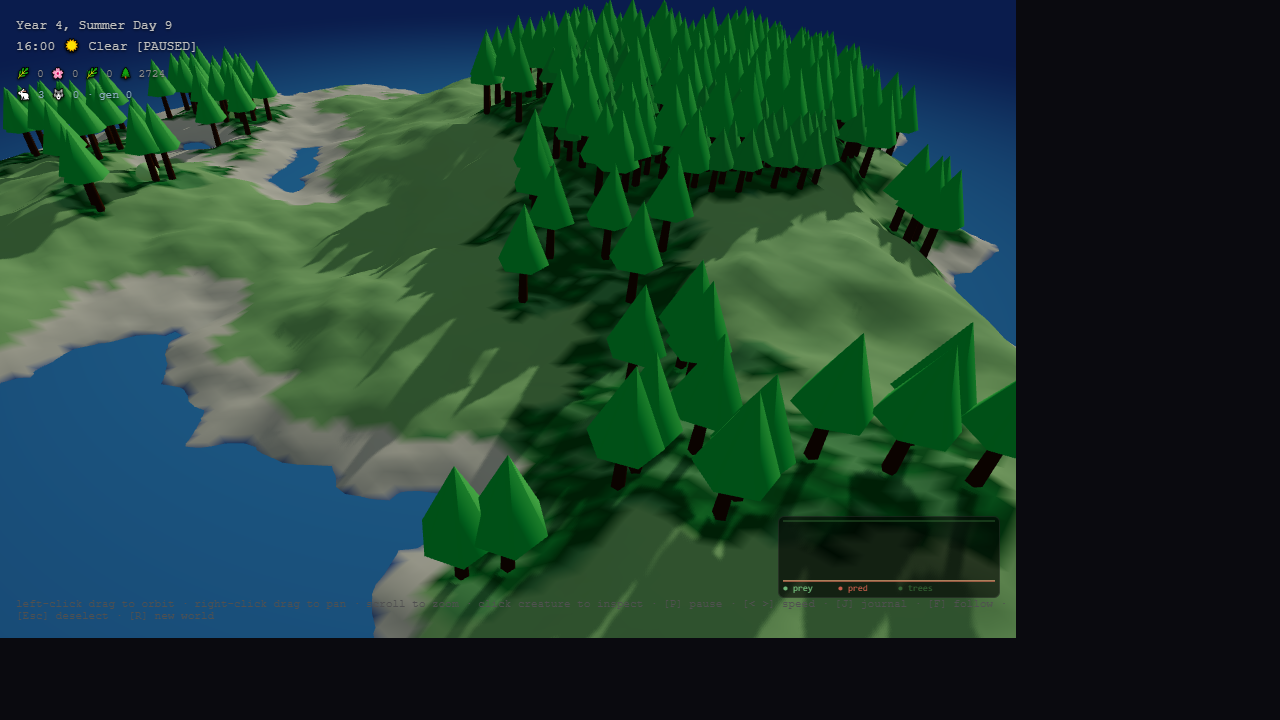
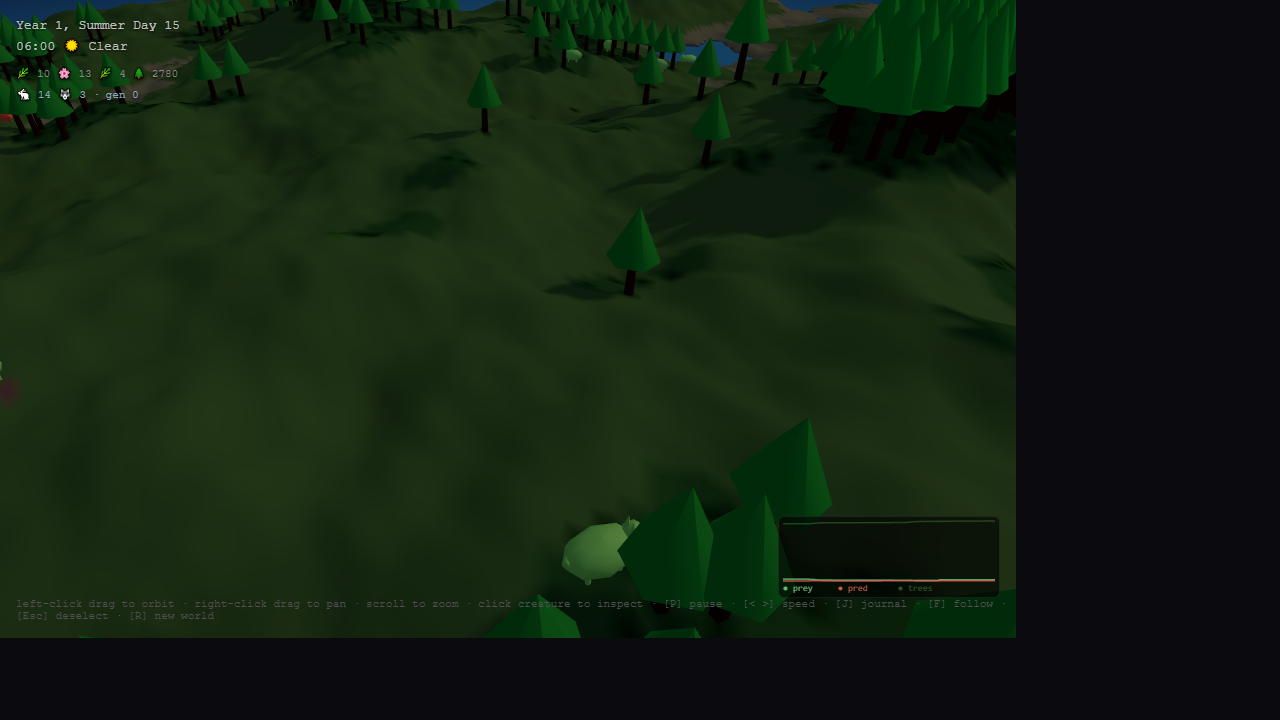
Expand world to 512x512, add quadruped creature models, fix orbit direction
- WORLD_SIZE 256 → 512 for 4x larger island
- MAX_CREATURES 600 → 1200, initial spawn scaled proportionally
- Herbivores: low-poly quadruped (body, head, ears, legs, tail)
- Predators: sleek wolf-like shape (elongated body, snout, legs, tail)
- Both creature types now face movement direction
- Fix inverted left-click orbit: drag right orbits right
- Camera: radius 220, max 700, far plane 2500 for larger world
- Sky dome 2400 radius, fog density halved, shadow far 800
- Vegetation limits: 10K trees, 7K bushes
- Updated screenshots for new larger world

diff --git a/src/render3d/CreatureMeshes.ts b/src/render3d/CreatureMeshes.ts
@@ -1,13 +1,88 @@
 import * as THREE from 'three';
+import { mergeGeometries } from 'three/addons/utils/BufferGeometryUtils.js';
 import { Creature, Diet, CreatureState } from '../life/Creature';
 import { Terrain } from '../world/Terrain';
 import { TerrainMesh } from './TerrainMesh';
 
-const MAX_INSTANCES = 700; // Slightly above MAX_CREATURES
+const MAX_INSTANCES = 1400; // Slightly above MAX_CREATURES
+
+/** Build a low-poly quadruped herbivore (rabbit/deer-like). Faces +X. */
+function buildHerbivoreGeo(): THREE.BufferGeometry {
+  // Rounded body
+  const body = new THREE.SphereGeometry(1, 8, 6);
+  body.scale(1.3, 0.7, 0.8);
+  body.translate(0, 0.5, 0);
+
+  // Head
+  const head = new THREE.SphereGeometry(0.4, 6, 5);
+  head.translate(1.1, 0.85, 0);
+
+  // Ears
+  const earL = new THREE.ConeGeometry(0.12, 0.5, 4);
+  earL.translate(0.95, 1.35, 0.15);
+  const earR = new THREE.ConeGeometry(0.12, 0.5, 4);
+  earR.translate(0.95, 1.35, -0.15);
+
+  // Legs
+  const legGeo = () => {
+    const g = new THREE.CylinderGeometry(0.1, 0.1, 0.6, 5);
+    return g;
+  };
+  const fl = legGeo(); fl.translate(0.55, -0.05, 0.35);
+  const fr = legGeo(); fr.translate(0.55, -0.05, -0.35);
+  const bl = legGeo(); bl.translate(-0.55, -0.05, 0.35);
+  const br = legGeo(); br.translate(-0.55, -0.05, -0.35);
+
+  // Short tail
+  const tail = new THREE.SphereGeometry(0.18, 4, 4);
+  tail.translate(-1.15, 0.6, 0);
+
+  const merged = mergeGeometries([body, head, earL, earR, fl, fr, bl, br, tail]);
+  merged.computeVertexNormals();
+  return merged;
+}
+
+/** Build a low-poly predator (wolf/fox-like). Faces +X. */
+function buildPredatorGeo(): THREE.BufferGeometry {
+  // Sleek body
+  const body = new THREE.SphereGeometry(1, 8, 6);
+  body.scale(1.6, 0.55, 0.6);
+  body.translate(0, 0.5, 0);
+
+  // Head/snout — cone pointing forward
+  const snout = new THREE.ConeGeometry(0.35, 0.9, 6);
+  snout.rotateZ(-Math.PI / 2);
+  snout.translate(1.5, 0.65, 0);
+
+  // Ears — pointed triangles
+  const earL = new THREE.ConeGeometry(0.1, 0.4, 3);
+  earL.translate(1.0, 1.1, 0.18);
+  const earR = new THREE.ConeGeometry(0.1, 0.4, 3);
+  earR.translate(1.0, 1.1, -0.18);
+
+  // Legs — longer and thinner
+  const legGeo = () => {
+    const g = new THREE.CylinderGeometry(0.08, 0.08, 0.7, 5);
+    return g;
+  };
+  const fl = legGeo(); fl.translate(0.7, -0.05, 0.28);
+  const fr = legGeo(); fr.translate(0.7, -0.05, -0.28);
+  const bl = legGeo(); bl.translate(-0.7, -0.05, 0.28);
+  const br = legGeo(); br.translate(-0.7, -0.05, -0.28);
+
+  // Tail — long and thin
+  const tail = new THREE.CylinderGeometry(0.06, 0.12, 1.0, 5);
+  tail.rotateZ(Math.PI / 3);
+  tail.translate(-1.5, 0.9, 0);
+
+  const merged = mergeGeometries([body, snout, earL, earR, fl, fr, bl, br, tail]);
+  merged.computeVertexNormals();
+  return merged;
+}
 
 /**
  * Renders all creatures as instanced meshes for performance.
- * Herbivores = spheres, Predators = cones (pointed in movement direction).
+ * Herbivores = low-poly quadrupeds (rabbit/deer), Predators = sleek hunters (wolf/fox).
  * A selection ring highlights the picked creature.
  */
 export class CreatureMeshes {
@@ -26,17 +101,16 @@ export class CreatureMeshes {
   predIds: number[] = [];
 
   constructor(scene: THREE.Scene) {
-    // Herbivore geometry — sphere
-    const herbGeo = new THREE.SphereGeometry(1.2, 10, 8);
+    // Herbivore geometry — low-poly quadruped
+    const herbGeo = buildHerbivoreGeo();
     const herbMat = new THREE.MeshPhongMaterial({ color: 0xffffff, shininess: 20 });
     this.herbGroup = new THREE.InstancedMesh(herbGeo, herbMat, MAX_INSTANCES);
     this.herbGroup.instanceMatrix.setUsage(THREE.DynamicDrawUsage);
     this.herbGroup.frustumCulled = false;
     scene.add(this.herbGroup);
 
-    // Predator geometry — cone pointed forward
-    const predGeo = new THREE.ConeGeometry(1.0, 2.5, 8);
-    predGeo.rotateZ(-Math.PI / 2); // point along +X
+    // Predator geometry — sleek hunter
+    const predGeo = buildPredatorGeo();
     const predMat = new THREE.MeshPhongMaterial({ color: 0xffffff, shininess: 20 });
     this.predGroup = new THREE.InstancedMesh(predGeo, predMat, MAX_INSTANCES);
     this.predGroup.instanceMatrix.setUsage(THREE.DynamicDrawUsage);
@@ -87,6 +161,9 @@ export class CreatureMeshes {
 
         this.dummy.position.copy(pos);
         this.dummy.scale.setScalar(scale);
+        // Face movement direction
+        const angle = Math.atan2(c.dy, c.dx);
+        this.dummy.rotation.set(0, -angle + Math.PI / 2, 0);
         this.dummy.updateMatrix();
         this.herbGroup.setMatrixAt(idx, this.dummy.matrix);
 

diff --git a/src/render3d/OrbitCamera.ts b/src/render3d/OrbitCamera.ts
@@ -10,15 +10,15 @@ export class OrbitCamera {
   // Spherical coordinates around target
   private theta = Math.PI * 0.25; // azimuthal angle
   private phi = Math.PI * 0.3; // polar angle (from top)
-  private radius = 120;
+  private radius = 220;
 
   private targetTheta = this.theta;
   private targetPhi = this.phi;
   private targetRadius = this.radius;
 
   // World point to orbit around
-  private target = new THREE.Vector3(128, 0, 128);
-  private targetTarget = new THREE.Vector3(128, 0, 128);
+  private target = new THREE.Vector3(256, 0, 256);
+  private targetTarget = new THREE.Vector3(256, 0, 256);
 
   get orbitTarget(): THREE.Vector3 {
     return this.target;
@@ -28,13 +28,13 @@ export class OrbitCamera {
   private isRightDragging = false;
   private lastMouse = { x: 0, y: 0 };
 
-  private readonly MIN_RADIUS = 20;
-  private readonly MAX_RADIUS = 400;
+  private readonly MIN_RADIUS = 30;
+  private readonly MAX_RADIUS = 700;
   private readonly MIN_PHI = 0.1;
   private readonly MAX_PHI = Math.PI * 0.48;
 
   constructor(worldSize: number) {
-    this.camera = new THREE.PerspectiveCamera(55, window.innerWidth / window.innerHeight, 0.5, 1200);
+    this.camera = new THREE.PerspectiveCamera(55, window.innerWidth / window.innerHeight, 0.5, 2500);
     this.target.set(worldSize / 2, 0, worldSize / 2);
     this.targetTarget.copy(this.target);
     this.updateCameraPosition();
@@ -59,7 +59,7 @@ export class OrbitCamera {
 
       if (this.isDragging) {
         // Orbit
-        this.targetTheta -= dx * 0.005;
+        this.targetTheta += dx * 0.005;
         this.targetPhi = Math.max(
           this.MIN_PHI,
           Math.min(this.MAX_PHI, this.targetPhi - dy * 0.005),

diff --git a/src/render3d/SkyLighting.ts b/src/render3d/SkyLighting.ts
@@ -23,7 +23,7 @@ export class SkyLighting {
     shadowCam.top = worldSize * 0.6;
     shadowCam.bottom = -worldSize * 0.6;
     shadowCam.near = 1;
-    shadowCam.far = 500;
+    shadowCam.far = 800;
     this.sunLight.shadow.bias = -0.001;
     scene.add(this.sunLight);
     scene.add(this.sunLight.target);
@@ -41,12 +41,12 @@ export class SkyLighting {
     scene.add(this.skyDome);
 
     // Fog
-    scene.fog = new THREE.FogExp2(0x88aacc, 0.0008);
+    scene.fog = new THREE.FogExp2(0x88aacc, 0.0004);
     scene.background = new THREE.Color(0x88aacc);
   }
 
   private createSkyDome(): THREE.Mesh {
-    const geo = new THREE.SphereGeometry(1200, 32, 16);
+    const geo = new THREE.SphereGeometry(2400, 32, 16);
     const mat = new THREE.ShaderMaterial({
       side: THREE.BackSide,
       depthWrite: false,

diff --git a/src/life/Fauna.ts b/src/life/Fauna.ts
@@ -32,7 +32,7 @@ export interface FaunaState {
   totalDeaths: number;
 }
 
-const MAX_CREATURES = 600;
+const MAX_CREATURES = 1200;
 const SPAWN_INTERVAL = 200;
 
 export class Fauna {
@@ -49,7 +49,7 @@ export class Fauna {
 
   seed(terrain: Terrain): void {
     // Spawn initial herbivores on grassland/forest
-    for (let i = 0; i < 60; i++) {
+    for (let i = 0; i < 120; i++) {
       const pos = this.findLandPos(terrain);
       if (!pos) continue;
       const genes = herbivoreGenes(this.rng);
@@ -59,7 +59,7 @@ export class Fauna {
     }
 
     // Spawn initial predators — fewer
-    for (let i = 0; i < 15; i++) {
+    for (let i = 0; i < 30; i++) {
       const pos = this.findLandPos(terrain);
       if (!pos) continue;
       const genes = predatorGenes(this.rng);

diff --git a/src/render3d/VegetationMeshes.ts b/src/render3d/VegetationMeshes.ts
@@ -3,8 +3,8 @@ import { Flora, PlantType, GrowthStage } from '../life/Flora';
 import { Terrain, Biome } from '../world/Terrain';
 import { HEIGHT_SCALE } from './TerrainMesh';
 
-const MAX_TREES = 4000;
-const MAX_BUSHES = 3000;
+const MAX_TREES = 10000;
+const MAX_BUSHES = 7000;
 
 /**
  * Instanced 3D vegetation: trees as trunk+canopy, bushes as small spheres.

diff --git a/src/world/World.ts b/src/world/World.ts
@@ -21,7 +21,7 @@ export interface WorldState {
   journal?: JournalEntry[];
 }
 
-export const WORLD_SIZE = 256;
+export const WORLD_SIZE = 512;
 
 export class World {
   readonly seed: number;
